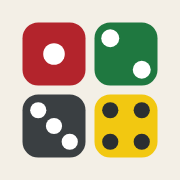
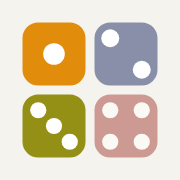
Palette v2: orange, periwinkle, sand, olive and pink
Claude-Session: https://claude.ai/code/session_0173vR462e8fzA9Jk4LU5kv7

diff --git a/index.html b/index.html
@@ -28,7 +28,7 @@
 <header class="site-head">
   <div class="wrap">
     <a class="brand" href="/" aria-label="Darren Don, home">
-      <svg viewBox="0 0 32 32" aria-hidden="true"><rect x="1" y="1" width="14" height="14" rx="3.5" fill="#B3242C"/><rect x="17" y="1" width="14" height="14" rx="3.5" fill="#1F7840"/><rect x="1" y="17" width="14" height="14" rx="3.5" fill="#3A3F42"/><rect x="17" y="17" width="14" height="14" rx="3.5" fill="#F2C811"/><circle cx="8" cy="8" r="2.4" fill="#fff"/><circle cx="20.5" cy="4.5" r="2" fill="#fff"/><circle cx="27.5" cy="11.5" r="2" fill="#fff"/><circle cx="4.5" cy="20.5" r="1.8" fill="#fff"/><circle cx="8" cy="24" r="1.8" fill="#fff"/><circle cx="11.5" cy="27.5" r="1.8" fill="#fff"/><circle cx="20.5" cy="20.5" r="1.8" fill="#2B2F31"/><circle cx="27.5" cy="20.5" r="1.8" fill="#2B2F31"/><circle cx="20.5" cy="27.5" r="1.8" fill="#2B2F31"/><circle cx="27.5" cy="27.5" r="1.8" fill="#2B2F31"/></svg>
+      <svg viewBox="0 0 32 32" aria-hidden="true"><rect x="1" y="1" width="14" height="14" rx="3.5" fill="#E18C0A"/><rect x="17" y="1" width="14" height="14" rx="3.5" fill="#898FA9"/><rect x="1" y="17" width="14" height="14" rx="3.5" fill="#949015"/><rect x="17" y="17" width="14" height="14" rx="3.5" fill="#CD9993"/><circle cx="8" cy="8" r="2.4" fill="#fff"/><circle cx="20.5" cy="4.5" r="2" fill="#fff"/><circle cx="27.5" cy="11.5" r="2" fill="#fff"/><circle cx="4.5" cy="20.5" r="1.8" fill="#fff"/><circle cx="8" cy="24" r="1.8" fill="#fff"/><circle cx="11.5" cy="27.5" r="1.8" fill="#fff"/><circle cx="20.5" cy="20.5" r="1.8" fill="#2B2F31"/><circle cx="27.5" cy="20.5" r="1.8" fill="#2B2F31"/><circle cx="20.5" cy="27.5" r="1.8" fill="#2B2F31"/><circle cx="27.5" cy="27.5" r="1.8" fill="#2B2F31"/></svg>
       <div><b>Darren Don</b><span>Board Game Designer</span></div>
     </a>
     <nav class="nav" aria-label="Main">
@@ -56,7 +56,7 @@
           <p class="tba">Titles to be announced · <a href="/games/#signed">What’s coming</a></p>
         </div>
       </div>
-      <div class="hero-dice"><svg class="dice" viewBox="0 0 340 340" role="img" aria-label="Four dice showing one, two, three and four"><g transform="rotate(-6 84 84)"><rect x="20" y="24" width="140" height="140" rx="30" fill="rgba(43,47,49,.16)"/><rect x="14" y="14" width="140" height="140" rx="30" fill="#B3242C"/><circle cx="84" cy="84" r="15" fill="#FBF9F4"/></g><g transform="rotate(5 254 80)"><rect x="190" y="20" width="140" height="140" rx="30" fill="rgba(43,47,49,.16)"/><rect x="184" y="10" width="140" height="140" rx="30" fill="#1F7840"/><circle cx="220" cy="46" r="13" fill="#FBF9F4"/><circle cx="288" cy="114" r="13" fill="#FBF9F4"/></g><g transform="rotate(4 80 252)"><rect x="16" y="192" width="140" height="140" rx="30" fill="rgba(43,47,49,.16)"/><rect x="10" y="182" width="140" height="140" rx="30" fill="#3A3F42"/><circle cx="44" cy="216" r="12" fill="#FBF9F4"/><circle cx="80" cy="252" r="12" fill="#FBF9F4"/><circle cx="116" cy="288" r="12" fill="#FBF9F4"/></g><g transform="rotate(-4 252 254)"><rect x="188" y="194" width="140" height="140" rx="30" fill="rgba(43,47,49,.16)"/><rect x="182" y="184" width="140" height="140" rx="30" fill="#F2C811"/><circle cx="218" cy="220" r="12" fill="#2B2F31"/><circle cx="286" cy="220" r="12" fill="#2B2F31"/><circle cx="218" cy="288" r="12" fill="#2B2F31"/><circle cx="286" cy="288" r="12" fill="#2B2F31"/></g></svg></div>
+      <div class="hero-dice"><svg class="dice" viewBox="0 0 340 340" role="img" aria-label="Four dice showing one, two, three and four"><g transform="rotate(-6 84 84)"><rect x="20" y="24" width="140" height="140" rx="30" fill="rgba(43,47,49,.16)"/><rect x="14" y="14" width="140" height="140" rx="30" fill="#E18C0A"/><circle cx="84" cy="84" r="15" fill="#FBF9F4"/></g><g transform="rotate(5 254 80)"><rect x="190" y="20" width="140" height="140" rx="30" fill="rgba(43,47,49,.16)"/><rect x="184" y="10" width="140" height="140" rx="30" fill="#898FA9"/><circle cx="220" cy="46" r="13" fill="#FBF9F4"/><circle cx="288" cy="114" r="13" fill="#FBF9F4"/></g><g transform="rotate(4 80 252)"><rect x="16" y="192" width="140" height="140" rx="30" fill="rgba(43,47,49,.16)"/><rect x="10" y="182" width="140" height="140" rx="30" fill="#949015"/><circle cx="44" cy="216" r="12" fill="#FBF9F4"/><circle cx="80" cy="252" r="12" fill="#FBF9F4"/><circle cx="116" cy="288" r="12" fill="#FBF9F4"/></g><g transform="rotate(-4 252 254)"><rect x="188" y="194" width="140" height="140" rx="30" fill="rgba(43,47,49,.16)"/><rect x="182" y="184" width="140" height="140" rx="30" fill="#CD9993"/><circle cx="218" cy="220" r="12" fill="#2B2F31"/><circle cx="286" cy="220" r="12" fill="#2B2F31"/><circle cx="218" cy="288" r="12" fill="#2B2F31"/><circle cx="286" cy="288" r="12" fill="#2B2F31"/></g></svg></div>
     </div>
   </section>
 

diff --git a/assets/css/site.css b/assets/css/site.css
@@ -358,3 +358,46 @@ a.chip:hover{border-color:var(--red);color:var(--red)}
 @media (prefers-color-scheme: dark){.hero-dice .dice rect[fill^="rgba"]{fill:rgba(0,0,0,.35)}}
 @media (max-width:820px){.hero-dice{order:-1;justify-self:start;max-width:150px}}
 @media (prefers-color-scheme: dark){.hero-dice .dice rect[fill="#3A3F42"]{stroke:rgba(239,235,227,.35);stroke-width:2}}
+
+/* ============================================================
+   Palette v2 (from the second color swatch): orange, periwinkle,
+   sand, olive and salmon pink on soft paper. Overrides the tokens
+   and color uses above.
+   ============================================================ */
+:root{
+  --paper:#F5F3EE; --surface:#FCFBF8; --ink:#25272E; --muted:#5C5F6B; --line:#DEDAD0; --line-strong:#C4BEB0;
+  --orange:#E18C0A; --peri:#898FA9; --sand:#C9B88E; --olive:#949015; --pink:#CD9993;
+  --orange-text:#A35F05; --olive-text:#6B680E;
+  --accent:var(--orange); --accent-soft:#FBEAD0; --on-accent:#25272E;
+  --red:var(--orange); --green:var(--olive); --slate:var(--peri); --yellow:var(--pink);
+}
+@media (prefers-color-scheme: dark){
+  :root{--paper:#1A1B20; --surface:#23252B; --ink:#EEECE6; --muted:#A9A8A2; --line:#33353D; --line-strong:#474A53;
+    --orange:#EE9A1E; --peri:#9CA2BE; --sand:#D2C29A; --olive:#B3AE2A; --pink:#DDA8A1;
+    --orange-text:#F0A53A; --olive-text:#C2BD3A; --accent-soft:#3A2A12; --on-accent:#1A1B20}
+}
+:focus-visible{outline-color:var(--orange)}
+.nav a:hover,a.chip:hover{color:var(--orange-text)}
+a.chip:hover{border-color:var(--orange)}
+.nav a[aria-current="page"]{box-shadow:inset 0 -3px 0 var(--orange)}
+.mast h1 .dot,.section-head .more,.signed-card .tba{color:var(--orange-text)}
+.btn.accent{background:var(--orange);border-color:var(--orange);color:var(--on-accent)}
+.btn.yellow{background:var(--sand);border-color:var(--sand);color:#25272E}
+/* underlines */
+.con-year a b,.about .copy a,.signed .tba a,.signed-list a{text-decoration-color:var(--pink)}
+/* five-color stripes */
+.site-foot::before,.band::before{background:linear-gradient(90deg,var(--orange) 0 20%,var(--peri) 20% 40%,var(--sand) 40% 60%,var(--olive) 60% 80%,var(--pink) 80%)}
+/* design principles and Let's meet */
+.principles li:nth-child(1) .n{background:var(--orange);color:#25272E}
+.principles li:nth-child(2) .n{background:var(--peri);color:#fff}
+.principles li:nth-child(3) .n{background:var(--olive);color:#fff}
+.point:nth-child(1){border-top-color:var(--orange)}.point:nth-child(2){border-top-color:var(--peri)}.point:nth-child(3){border-top-color:var(--olive)}
+.signed-card:nth-child(1) .bar{background:var(--orange)}.signed-card:nth-child(2) .bar{background:var(--peri)}.signed-card:nth-child(3) .bar{background:var(--olive)}
+/* CTA band: periwinkle panel, dark text */
+.band{background:var(--peri);color:#1F2230}
+.band h2{color:#1F2230}
+.band p{color:rgba(31,34,48,.82)}
+.band .btn{border-color:#1F2230;color:#1F2230}
+.band .btn.yellow,.band .btn.accent{background:var(--orange);border-color:var(--orange);color:#1F2230}
+@media (prefers-color-scheme: dark){.band{background:#5F6584;color:#F5F3EE}.band h2{color:#F5F3EE}.band p{color:rgba(245,243,238,.82)}.band .btn{border-color:#F5F3EE;color:#F5F3EE}.band .btn.yellow,.band .btn.accent{color:#1A1B20}}
+@media (prefers-color-scheme: dark){.hero-dice .dice rect[fill="#3A3F42"]{stroke:none}}

diff --git a/games/boo-who/index.html b/games/boo-who/index.html
@@ -30,7 +30,7 @@
 <header class="site-head" style="background:color-mix(in srgb,var(--g-bg) 88%,transparent)">
   <div class="wrap">
     <a class="brand" href="/" aria-label="Darren Don, home">
-      <svg viewBox="0 0 32 32" aria-hidden="true"><rect x="1" y="1" width="14" height="14" rx="3.5" fill="#B3242C"/><rect x="17" y="1" width="14" height="14" rx="3.5" fill="#1F7840"/><rect x="1" y="17" width="14" height="14" rx="3.5" fill="#3A3F42"/><rect x="17" y="17" width="14" height="14" rx="3.5" fill="#F2C811"/><circle cx="8" cy="8" r="2.4" fill="#fff"/><circle cx="20.5" cy="4.5" r="2" fill="#fff"/><circle cx="27.5" cy="11.5" r="2" fill="#fff"/><circle cx="4.5" cy="20.5" r="1.8" fill="#fff"/><circle cx="8" cy="24" r="1.8" fill="#fff"/><circle cx="11.5" cy="27.5" r="1.8" fill="#fff"/><circle cx="20.5" cy="20.5" r="1.8" fill="#2B2F31"/><circle cx="27.5" cy="20.5" r="1.8" fill="#2B2F31"/><circle cx="20.5" cy="27.5" r="1.8" fill="#2B2F31"/><circle cx="27.5" cy="27.5" r="1.8" fill="#2B2F31"/></svg>
+      <svg viewBox="0 0 32 32" aria-hidden="true"><rect x="1" y="1" width="14" height="14" rx="3.5" fill="#E18C0A"/><rect x="17" y="1" width="14" height="14" rx="3.5" fill="#898FA9"/><rect x="1" y="17" width="14" height="14" rx="3.5" fill="#949015"/><rect x="17" y="17" width="14" height="14" rx="3.5" fill="#CD9993"/><circle cx="8" cy="8" r="2.4" fill="#fff"/><circle cx="20.5" cy="4.5" r="2" fill="#fff"/><circle cx="27.5" cy="11.5" r="2" fill="#fff"/><circle cx="4.5" cy="20.5" r="1.8" fill="#fff"/><circle cx="8" cy="24" r="1.8" fill="#fff"/><circle cx="11.5" cy="27.5" r="1.8" fill="#fff"/><circle cx="20.5" cy="20.5" r="1.8" fill="#2B2F31"/><circle cx="27.5" cy="20.5" r="1.8" fill="#2B2F31"/><circle cx="20.5" cy="27.5" r="1.8" fill="#2B2F31"/><circle cx="27.5" cy="27.5" r="1.8" fill="#2B2F31"/></svg>
       <div><b>Darren Don</b><span>Board Game Designer</span></div>
     </a>
     <nav class="nav" aria-label="Main">

diff --git a/games/diggers/index.html b/games/diggers/index.html
@@ -30,7 +30,7 @@
 <header class="site-head" style="background:color-mix(in srgb,var(--g-bg) 88%,transparent)">
   <div class="wrap">
     <a class="brand" href="/" aria-label="Darren Don, home">
-      <svg viewBox="0 0 32 32" aria-hidden="true"><rect x="1" y="1" width="14" height="14" rx="3.5" fill="#B3242C"/><rect x="17" y="1" width="14" height="14" rx="3.5" fill="#1F7840"/><rect x="1" y="17" width="14" height="14" rx="3.5" fill="#3A3F42"/><rect x="17" y="17" width="14" height="14" rx="3.5" fill="#F2C811"/><circle cx="8" cy="8" r="2.4" fill="#fff"/><circle cx="20.5" cy="4.5" r="2" fill="#fff"/><circle cx="27.5" cy="11.5" r="2" fill="#fff"/><circle cx="4.5" cy="20.5" r="1.8" fill="#fff"/><circle cx="8" cy="24" r="1.8" fill="#fff"/><circle cx="11.5" cy="27.5" r="1.8" fill="#fff"/><circle cx="20.5" cy="20.5" r="1.8" fill="#2B2F31"/><circle cx="27.5" cy="20.5" r="1.8" fill="#2B2F31"/><circle cx="20.5" cy="27.5" r="1.8" fill="#2B2F31"/><circle cx="27.5" cy="27.5" r="1.8" fill="#2B2F31"/></svg>
+      <svg viewBox="0 0 32 32" aria-hidden="true"><rect x="1" y="1" width="14" height="14" rx="3.5" fill="#E18C0A"/><rect x="17" y="1" width="14" height="14" rx="3.5" fill="#898FA9"/><rect x="1" y="17" width="14" height="14" rx="3.5" fill="#949015"/><rect x="17" y="17" width="14" height="14" rx="3.5" fill="#CD9993"/><circle cx="8" cy="8" r="2.4" fill="#fff"/><circle cx="20.5" cy="4.5" r="2" fill="#fff"/><circle cx="27.5" cy="11.5" r="2" fill="#fff"/><circle cx="4.5" cy="20.5" r="1.8" fill="#fff"/><circle cx="8" cy="24" r="1.8" fill="#fff"/><circle cx="11.5" cy="27.5" r="1.8" fill="#fff"/><circle cx="20.5" cy="20.5" r="1.8" fill="#2B2F31"/><circle cx="27.5" cy="20.5" r="1.8" fill="#2B2F31"/><circle cx="20.5" cy="27.5" r="1.8" fill="#2B2F31"/><circle cx="27.5" cy="27.5" r="1.8" fill="#2B2F31"/></svg>
       <div><b>Darren Don</b><span>Board Game Designer</span></div>
     </a>
     <nav class="nav" aria-label="Main">

diff --git a/games/dim-sum-rush/index.html b/games/dim-sum-rush/index.html
@@ -29,7 +29,7 @@
 <header class="site-head" style="background:color-mix(in srgb,var(--g-bg) 88%,transparent)">
   <div class="wrap">
     <a class="brand" href="/" aria-label="Darren Don, home">
-      <svg viewBox="0 0 32 32" aria-hidden="true"><rect x="1" y="1" width="14" height="14" rx="3.5" fill="#B3242C"/><rect x="17" y="1" width="14" height="14" rx="3.5" fill="#1F7840"/><rect x="1" y="17" width="14" height="14" rx="3.5" fill="#3A3F42"/><rect x="17" y="17" width="14" height="14" rx="3.5" fill="#F2C811"/><circle cx="8" cy="8" r="2.4" fill="#fff"/><circle cx="20.5" cy="4.5" r="2" fill="#fff"/><circle cx="27.5" cy="11.5" r="2" fill="#fff"/><circle cx="4.5" cy="20.5" r="1.8" fill="#fff"/><circle cx="8" cy="24" r="1.8" fill="#fff"/><circle cx="11.5" cy="27.5" r="1.8" fill="#fff"/><circle cx="20.5" cy="20.5" r="1.8" fill="#2B2F31"/><circle cx="27.5" cy="20.5" r="1.8" fill="#2B2F31"/><circle cx="20.5" cy="27.5" r="1.8" fill="#2B2F31"/><circle cx="27.5" cy="27.5" r="1.8" fill="#2B2F31"/></svg>
+      <svg viewBox="0 0 32 32" aria-hidden="true"><rect x="1" y="1" width="14" height="14" rx="3.5" fill="#E18C0A"/><rect x="17" y="1" width="14" height="14" rx="3.5" fill="#898FA9"/><rect x="1" y="17" width="14" height="14" rx="3.5" fill="#949015"/><rect x="17" y="17" width="14" height="14" rx="3.5" fill="#CD9993"/><circle cx="8" cy="8" r="2.4" fill="#fff"/><circle cx="20.5" cy="4.5" r="2" fill="#fff"/><circle cx="27.5" cy="11.5" r="2" fill="#fff"/><circle cx="4.5" cy="20.5" r="1.8" fill="#fff"/><circle cx="8" cy="24" r="1.8" fill="#fff"/><circle cx="11.5" cy="27.5" r="1.8" fill="#fff"/><circle cx="20.5" cy="20.5" r="1.8" fill="#2B2F31"/><circle cx="27.5" cy="20.5" r="1.8" fill="#2B2F31"/><circle cx="20.5" cy="27.5" r="1.8" fill="#2B2F31"/><circle cx="27.5" cy="27.5" r="1.8" fill="#2B2F31"/></svg>
       <div><b>Darren Don</b><span>Board Game Designer</span></div>
     </a>
     <nav class="nav" aria-label="Main">

diff --git a/games/down-for-the-count/index.html b/games/down-for-the-count/index.html
@@ -30,7 +30,7 @@
 <header class="site-head" style="background:color-mix(in srgb,var(--g-bg) 88%,transparent)">
   <div class="wrap">
     <a class="brand" href="/" aria-label="Darren Don, home">
-      <svg viewBox="0 0 32 32" aria-hidden="true"><rect x="1" y="1" width="14" height="14" rx="3.5" fill="#B3242C"/><rect x="17" y="1" width="14" height="14" rx="3.5" fill="#1F7840"/><rect x="1" y="17" width="14" height="14" rx="3.5" fill="#3A3F42"/><rect x="17" y="17" width="14" height="14" rx="3.5" fill="#F2C811"/><circle cx="8" cy="8" r="2.4" fill="#fff"/><circle cx="20.5" cy="4.5" r="2" fill="#fff"/><circle cx="27.5" cy="11.5" r="2" fill="#fff"/><circle cx="4.5" cy="20.5" r="1.8" fill="#fff"/><circle cx="8" cy="24" r="1.8" fill="#fff"/><circle cx="11.5" cy="27.5" r="1.8" fill="#fff"/><circle cx="20.5" cy="20.5" r="1.8" fill="#2B2F31"/><circle cx="27.5" cy="20.5" r="1.8" fill="#2B2F31"/><circle cx="20.5" cy="27.5" r="1.8" fill="#2B2F31"/><circle cx="27.5" cy="27.5" r="1.8" fill="#2B2F31"/></svg>
+      <svg viewBox="0 0 32 32" aria-hidden="true"><rect x="1" y="1" width="14" height="14" rx="3.5" fill="#E18C0A"/><rect x="17" y="1" width="14" height="14" rx="3.5" fill="#898FA9"/><rect x="1" y="17" width="14" height="14" rx="3.5" fill="#949015"/><rect x="17" y="17" width="14" height="14" rx="3.5" fill="#CD9993"/><circle cx="8" cy="8" r="2.4" fill="#fff"/><circle cx="20.5" cy="4.5" r="2" fill="#fff"/><circle cx="27.5" cy="11.5" r="2" fill="#fff"/><circle cx="4.5" cy="20.5" r="1.8" fill="#fff"/><circle cx="8" cy="24" r="1.8" fill="#fff"/><circle cx="11.5" cy="27.5" r="1.8" fill="#fff"/><circle cx="20.5" cy="20.5" r="1.8" fill="#2B2F31"/><circle cx="27.5" cy="20.5" r="1.8" fill="#2B2F31"/><circle cx="20.5" cy="27.5" r="1.8" fill="#2B2F31"/><circle cx="27.5" cy="27.5" r="1.8" fill="#2B2F31"/></svg>
       <div><b>Darren Don</b><span>Board Game Designer</span></div>
     </a>
     <nav class="nav" aria-label="Main">

diff --git a/games/too-many-crooks/index.html b/games/too-many-crooks/index.html
@@ -30,7 +30,7 @@
 <header class="site-head" style="background:color-mix(in srgb,var(--g-bg) 88%,transparent)">
   <div class="wrap">
     <a class="brand" href="/" aria-label="Darren Don, home">
-      <svg viewBox="0 0 32 32" aria-hidden="true"><rect x="1" y="1" width="14" height="14" rx="3.5" fill="#B3242C"/><rect x="17" y="1" width="14" height="14" rx="3.5" fill="#1F7840"/><rect x="1" y="17" width="14" height="14" rx="3.5" fill="#3A3F42"/><rect x="17" y="17" width="14" height="14" rx="3.5" fill="#F2C811"/><circle cx="8" cy="8" r="2.4" fill="#fff"/><circle cx="20.5" cy="4.5" r="2" fill="#fff"/><circle cx="27.5" cy="11.5" r="2" fill="#fff"/><circle cx="4.5" cy="20.5" r="1.8" fill="#fff"/><circle cx="8" cy="24" r="1.8" fill="#fff"/><circle cx="11.5" cy="27.5" r="1.8" fill="#fff"/><circle cx="20.5" cy="20.5" r="1.8" fill="#2B2F31"/><circle cx="27.5" cy="20.5" r="1.8" fill="#2B2F31"/><circle cx="20.5" cy="27.5" r="1.8" fill="#2B2F31"/><circle cx="27.5" cy="27.5" r="1.8" fill="#2B2F31"/></svg>
+      <svg viewBox="0 0 32 32" aria-hidden="true"><rect x="1" y="1" width="14" height="14" rx="3.5" fill="#E18C0A"/><rect x="17" y="1" width="14" height="14" rx="3.5" fill="#898FA9"/><rect x="1" y="17" width="14" height="14" rx="3.5" fill="#949015"/><rect x="17" y="17" width="14" height="14" rx="3.5" fill="#CD9993"/><circle cx="8" cy="8" r="2.4" fill="#fff"/><circle cx="20.5" cy="4.5" r="2" fill="#fff"/><circle cx="27.5" cy="11.5" r="2" fill="#fff"/><circle cx="4.5" cy="20.5" r="1.8" fill="#fff"/><circle cx="8" cy="24" r="1.8" fill="#fff"/><circle cx="11.5" cy="27.5" r="1.8" fill="#fff"/><circle cx="20.5" cy="20.5" r="1.8" fill="#2B2F31"/><circle cx="27.5" cy="20.5" r="1.8" fill="#2B2F31"/><circle cx="20.5" cy="27.5" r="1.8" fill="#2B2F31"/><circle cx="27.5" cy="27.5" r="1.8" fill="#2B2F31"/></svg>
       <div><b>Darren Don</b><span>Board Game Designer</span></div>
     </a>
     <nav class="nav" aria-label="Main">

diff --git a/games/un-deux-trois-cat/index.html b/games/un-deux-trois-cat/index.html
@@ -30,7 +30,7 @@
 <header class="site-head" style="background:color-mix(in srgb,var(--g-bg) 88%,transparent)">
   <div class="wrap">
     <a class="brand" href="/" aria-label="Darren Don, home">
-      <svg viewBox="0 0 32 32" aria-hidden="true"><rect x="1" y="1" width="14" height="14" rx="3.5" fill="#B3242C"/><rect x="17" y="1" width="14" height="14" rx="3.5" fill="#1F7840"/><rect x="1" y="17" width="14" height="14" rx="3.5" fill="#3A3F42"/><rect x="17" y="17" width="14" height="14" rx="3.5" fill="#F2C811"/><circle cx="8" cy="8" r="2.4" fill="#fff"/><circle cx="20.5" cy="4.5" r="2" fill="#fff"/><circle cx="27.5" cy="11.5" r="2" fill="#fff"/><circle cx="4.5" cy="20.5" r="1.8" fill="#fff"/><circle cx="8" cy="24" r="1.8" fill="#fff"/><circle cx="11.5" cy="27.5" r="1.8" fill="#fff"/><circle cx="20.5" cy="20.5" r="1.8" fill="#2B2F31"/><circle cx="27.5" cy="20.5" r="1.8" fill="#2B2F31"/><circle cx="20.5" cy="27.5" r="1.8" fill="#2B2F31"/><circle cx="27.5" cy="27.5" r="1.8" fill="#2B2F31"/></svg>
+      <svg viewBox="0 0 32 32" aria-hidden="true"><rect x="1" y="1" width="14" height="14" rx="3.5" fill="#E18C0A"/><rect x="17" y="1" width="14" height="14" rx="3.5" fill="#898FA9"/><rect x="1" y="17" width="14" height="14" rx="3.5" fill="#949015"/><rect x="17" y="17" width="14" height="14" rx="3.5" fill="#CD9993"/><circle cx="8" cy="8" r="2.4" fill="#fff"/><circle cx="20.5" cy="4.5" r="2" fill="#fff"/><circle cx="27.5" cy="11.5" r="2" fill="#fff"/><circle cx="4.5" cy="20.5" r="1.8" fill="#fff"/><circle cx="8" cy="24" r="1.8" fill="#fff"/><circle cx="11.5" cy="27.5" r="1.8" fill="#fff"/><circle cx="20.5" cy="20.5" r="1.8" fill="#2B2F31"/><circle cx="27.5" cy="20.5" r="1.8" fill="#2B2F31"/><circle cx="20.5" cy="27.5" r="1.8" fill="#2B2F31"/><circle cx="27.5" cy="27.5" r="1.8" fill="#2B2F31"/></svg>
       <div><b>Darren Don</b><span>Board Game Designer</span></div>
     </a>
     <nav class="nav" aria-label="Main">

diff --git a/404.html b/404.html
@@ -24,7 +24,7 @@
 <header class="site-head">
   <div class="wrap">
     <a class="brand" href="/" aria-label="Darren Don, home">
-      <svg viewBox="0 0 32 32" aria-hidden="true"><rect x="1" y="1" width="14" height="14" rx="3.5" fill="#B3242C"/><rect x="17" y="1" width="14" height="14" rx="3.5" fill="#1F7840"/><rect x="1" y="17" width="14" height="14" rx="3.5" fill="#3A3F42"/><rect x="17" y="17" width="14" height="14" rx="3.5" fill="#F2C811"/><circle cx="8" cy="8" r="2.4" fill="#fff"/><circle cx="20.5" cy="4.5" r="2" fill="#fff"/><circle cx="27.5" cy="11.5" r="2" fill="#fff"/><circle cx="4.5" cy="20.5" r="1.8" fill="#fff"/><circle cx="8" cy="24" r="1.8" fill="#fff"/><circle cx="11.5" cy="27.5" r="1.8" fill="#fff"/><circle cx="20.5" cy="20.5" r="1.8" fill="#2B2F31"/><circle cx="27.5" cy="20.5" r="1.8" fill="#2B2F31"/><circle cx="20.5" cy="27.5" r="1.8" fill="#2B2F31"/><circle cx="27.5" cy="27.5" r="1.8" fill="#2B2F31"/></svg>
+      <svg viewBox="0 0 32 32" aria-hidden="true"><rect x="1" y="1" width="14" height="14" rx="3.5" fill="#E18C0A"/><rect x="17" y="1" width="14" height="14" rx="3.5" fill="#898FA9"/><rect x="1" y="17" width="14" height="14" rx="3.5" fill="#949015"/><rect x="17" y="17" width="14" height="14" rx="3.5" fill="#CD9993"/><circle cx="8" cy="8" r="2.4" fill="#fff"/><circle cx="20.5" cy="4.5" r="2" fill="#fff"/><circle cx="27.5" cy="11.5" r="2" fill="#fff"/><circle cx="4.5" cy="20.5" r="1.8" fill="#fff"/><circle cx="8" cy="24" r="1.8" fill="#fff"/><circle cx="11.5" cy="27.5" r="1.8" fill="#fff"/><circle cx="20.5" cy="20.5" r="1.8" fill="#2B2F31"/><circle cx="27.5" cy="20.5" r="1.8" fill="#2B2F31"/><circle cx="20.5" cy="27.5" r="1.8" fill="#2B2F31"/><circle cx="27.5" cy="27.5" r="1.8" fill="#2B2F31"/></svg>
       <div><b>Darren Don</b><span>Board Game Designer</span></div>
     </a>
     <nav class="nav" aria-label="Main">

diff --git a/contact/index.html b/contact/index.html
@@ -25,7 +25,7 @@
 <header class="site-head">
   <div class="wrap">
     <a class="brand" href="/" aria-label="Darren Don, home">
-      <svg viewBox="0 0 32 32" aria-hidden="true"><rect x="1" y="1" width="14" height="14" rx="3.5" fill="#B3242C"/><rect x="17" y="1" width="14" height="14" rx="3.5" fill="#1F7840"/><rect x="1" y="17" width="14" height="14" rx="3.5" fill="#3A3F42"/><rect x="17" y="17" width="14" height="14" rx="3.5" fill="#F2C811"/><circle cx="8" cy="8" r="2.4" fill="#fff"/><circle cx="20.5" cy="4.5" r="2" fill="#fff"/><circle cx="27.5" cy="11.5" r="2" fill="#fff"/><circle cx="4.5" cy="20.5" r="1.8" fill="#fff"/><circle cx="8" cy="24" r="1.8" fill="#fff"/><circle cx="11.5" cy="27.5" r="1.8" fill="#fff"/><circle cx="20.5" cy="20.5" r="1.8" fill="#2B2F31"/><circle cx="27.5" cy="20.5" r="1.8" fill="#2B2F31"/><circle cx="20.5" cy="27.5" r="1.8" fill="#2B2F31"/><circle cx="27.5" cy="27.5" r="1.8" fill="#2B2F31"/></svg>
+      <svg viewBox="0 0 32 32" aria-hidden="true"><rect x="1" y="1" width="14" height="14" rx="3.5" fill="#E18C0A"/><rect x="17" y="1" width="14" height="14" rx="3.5" fill="#898FA9"/><rect x="1" y="17" width="14" height="14" rx="3.5" fill="#949015"/><rect x="17" y="17" width="14" height="14" rx="3.5" fill="#CD9993"/><circle cx="8" cy="8" r="2.4" fill="#fff"/><circle cx="20.5" cy="4.5" r="2" fill="#fff"/><circle cx="27.5" cy="11.5" r="2" fill="#fff"/><circle cx="4.5" cy="20.5" r="1.8" fill="#fff"/><circle cx="8" cy="24" r="1.8" fill="#fff"/><circle cx="11.5" cy="27.5" r="1.8" fill="#fff"/><circle cx="20.5" cy="20.5" r="1.8" fill="#2B2F31"/><circle cx="27.5" cy="20.5" r="1.8" fill="#2B2F31"/><circle cx="20.5" cy="27.5" r="1.8" fill="#2B2F31"/><circle cx="27.5" cy="27.5" r="1.8" fill="#2B2F31"/></svg>
       <div><b>Darren Don</b><span>Board Game Designer</span></div>
     </a>
     <nav class="nav" aria-label="Main">

diff --git a/games/index.html b/games/index.html
@@ -28,7 +28,7 @@
 <header class="site-head">
   <div class="wrap">
     <a class="brand" href="/" aria-label="Darren Don, home">
-      <svg viewBox="0 0 32 32" aria-hidden="true"><rect x="1" y="1" width="14" height="14" rx="3.5" fill="#B3242C"/><rect x="17" y="1" width="14" height="14" rx="3.5" fill="#1F7840"/><rect x="1" y="17" width="14" height="14" rx="3.5" fill="#3A3F42"/><rect x="17" y="17" width="14" height="14" rx="3.5" fill="#F2C811"/><circle cx="8" cy="8" r="2.4" fill="#fff"/><circle cx="20.5" cy="4.5" r="2" fill="#fff"/><circle cx="27.5" cy="11.5" r="2" fill="#fff"/><circle cx="4.5" cy="20.5" r="1.8" fill="#fff"/><circle cx="8" cy="24" r="1.8" fill="#fff"/><circle cx="11.5" cy="27.5" r="1.8" fill="#fff"/><circle cx="20.5" cy="20.5" r="1.8" fill="#2B2F31"/><circle cx="27.5" cy="20.5" r="1.8" fill="#2B2F31"/><circle cx="20.5" cy="27.5" r="1.8" fill="#2B2F31"/><circle cx="27.5" cy="27.5" r="1.8" fill="#2B2F31"/></svg>
+      <svg viewBox="0 0 32 32" aria-hidden="true"><rect x="1" y="1" width="14" height="14" rx="3.5" fill="#E18C0A"/><rect x="17" y="1" width="14" height="14" rx="3.5" fill="#898FA9"/><rect x="1" y="17" width="14" height="14" rx="3.5" fill="#949015"/><rect x="17" y="17" width="14" height="14" rx="3.5" fill="#CD9993"/><circle cx="8" cy="8" r="2.4" fill="#fff"/><circle cx="20.5" cy="4.5" r="2" fill="#fff"/><circle cx="27.5" cy="11.5" r="2" fill="#fff"/><circle cx="4.5" cy="20.5" r="1.8" fill="#fff"/><circle cx="8" cy="24" r="1.8" fill="#fff"/><circle cx="11.5" cy="27.5" r="1.8" fill="#fff"/><circle cx="20.5" cy="20.5" r="1.8" fill="#2B2F31"/><circle cx="27.5" cy="20.5" r="1.8" fill="#2B2F31"/><circle cx="20.5" cy="27.5" r="1.8" fill="#2B2F31"/><circle cx="27.5" cy="27.5" r="1.8" fill="#2B2F31"/></svg>
       <div><b>Darren Don</b><span>Board Game Designer</span></div>
     </a>
     <nav class="nav" aria-label="Main">

diff --git a/assets/img/src/og.html b/assets/img/src/og.html
@@ -1,12 +1,12 @@
 <!doctype html><html><head><meta charset="utf-8"><link rel="stylesheet" href="/assets/css/fonts.css"><style>
 /* source for /assets/img/og.jpg (1200 x 630): name and color blocks left, four game renders right */
 html,body{margin:0}
-#og{width:1200px;height:630px;display:grid;grid-template-columns:520px 1fr;background:#F3EFE6;color:#2B2F31;font-family:Jost,Arial,sans-serif;position:relative}
-#og::after{content:"";position:absolute;left:0;right:0;bottom:0;height:10px;background:linear-gradient(90deg,#B3242C 0 25%,#1F7840 25% 50%,#3A3F42 50% 75%,#F2C811 75%)}
+#og{width:1200px;height:630px;display:grid;grid-template-columns:520px 1fr;background:#F5F3EE;color:#25272E;font-family:Jost,Arial,sans-serif;position:relative}
+#og::after{content:"";position:absolute;left:0;right:0;bottom:0;height:10px;background:linear-gradient(90deg,#E18C0A 0 20%,#898FA9 20% 40%,#C9B88E 40% 60%,#949015 60% 80%,#CD9993 80%)}
 .l{padding:0 44px 0 60px;display:flex;flex-direction:column;justify-content:center;gap:20px}
 .k{font:600 15px/1 Jost,sans-serif;letter-spacing:.24em;text-transform:uppercase;color:#5D6366}
 h1{margin:0;font:600 86px/.92 Jost,sans-serif;letter-spacing:.05em;text-transform:uppercase}
-h1 i{font-style:normal;color:#B3242C}
+h1 i{font-style:normal;color:#E18C0A}
 p{margin:0;font-size:25px;line-height:1.35;font-weight:400}
 .r{display:grid;grid-template-columns:1fr 1fr;grid-template-rows:1fr 1fr;gap:8px;padding:8px 8px 18px 8px}
 .r img{width:100%;height:100%;object-fit:cover;display:block}
